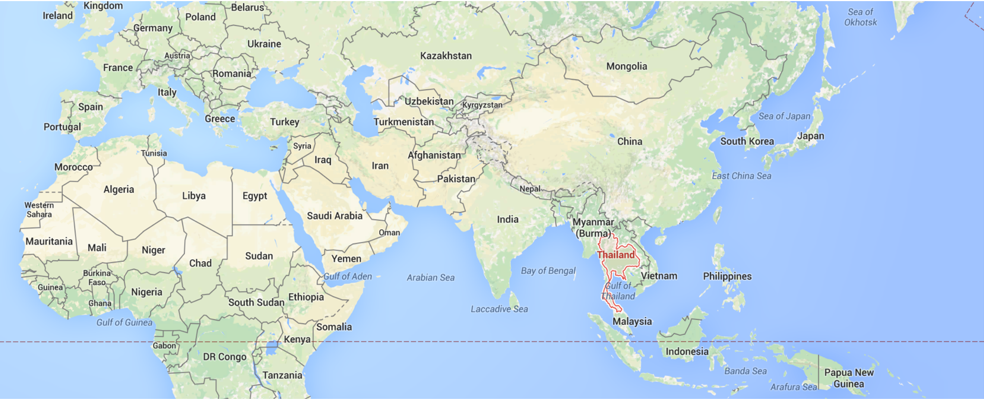
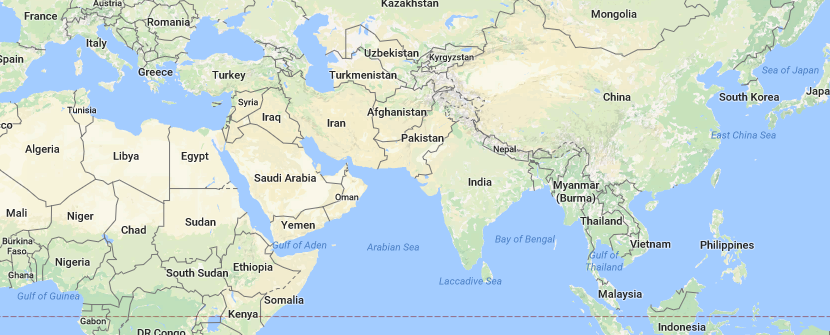
add latitude longtitude plot

diff --git a/PlotOnStaticMap.html b/PlotOnStaticMap.html
@@ -1,32 +1,50 @@
 <!DOCTYPE html>
 <html>
-<body>
+	<body>
+		<canvas id="myCanvas" width="830" height="335" style="border:1worldCoordinateX solid #d3d3d3;background-image: url('map.png');background-size: cover;">
+			Your browser does not support the HTML5 canvas tag.</canvas>
 
-<canvas id="myCanvas" width="830" height="335" style="border:1px solid #d3d3d3;background-image: url('map.png');background-size: cover;">
-Your browser does not support the HTML5 canvas tag.</canvas>
+		<br/> Please input the lat and lng<br/>
 
-<script>
-var c = document.getElementById("myCanvas");
-var ctx = c.getContext("2d");
-ctx.fillStyle = "#FF0000";
+		<input type="text" id="lat" value="9.977888"/>
+		<input type="text" id="lng" value="101.872305"/>
+		<input type="button" onclick="plot()" value="Plot"/>
+    
+	</body>
+	<script>
+	// top left point of the map we are using
+	var STARTLAT = 48.551780;
+	var STARTLNG = -4.973942;
 
+	// below function is from: https://developers.google.com/maps/documentation/javascript/examples/map-coordinates?hl=zh-tw
+	var TILE_SIZE = 256;
+	var ZOOM = 3;
+	function project(lat, lng, zoom) {
+	  var siny = Math.sin(lat * Math.PI / 180);
+	  // Truncating to 0.9999 effectively limits latitude to 89.189. This is
+	  // about a third of a tile past the edge of the world tile.
+	  siny = Math.min(Math.max(siny, -0.9999), 0.9999);
 
-ctx.beginPath();
-ctx.fillStyle = "#FF0000";
-var lat = 9.977888;
-var log = 101.872305;
+	  return {
+	  X : TILE_SIZE * (0.5 + lng / 360) * (1<<zoom),
+	  Y : TILE_SIZE * (0.5 - Math.log((1 + siny) / (1 - siny)) / (4 * Math.PI)) * (1<<zoom)}
+	}
 
-var west = -22;
-var east = 172;
-var north = 55;
-var south = -11;
+	function plot()
+	{
+		var c = document.getElementById("myCanvas");
+		var ctx = c.getContext("2d");
+		ctx.fillStyle = "#FF0000";
 
-var x = (log - west) * 830 / (east - west);
-var y = 335 - (lat - south) * 335 / (north - south);
-ctx.fillRect(x,y,10,10);
-//ctx.arc(x,y,10,0,2*Math.PI);
-ctx.stroke();
-</script>
+		//ctx.beginPath();
+		//ctx.fillStyle = "#FF0000";
 
-</body>
+		var lat = document.getElementById("lat").value;
+		var lng = document.getElementById("lng").value;
+
+		var start = project(STARTLAT, STARTLNG, ZOOM);
+		var p = project(lat, lng, ZOOM);
+		ctx.fillRect(p.X-start.X,p.Y-start.Y,5,5);
+	}
+	</script>
 </html>
